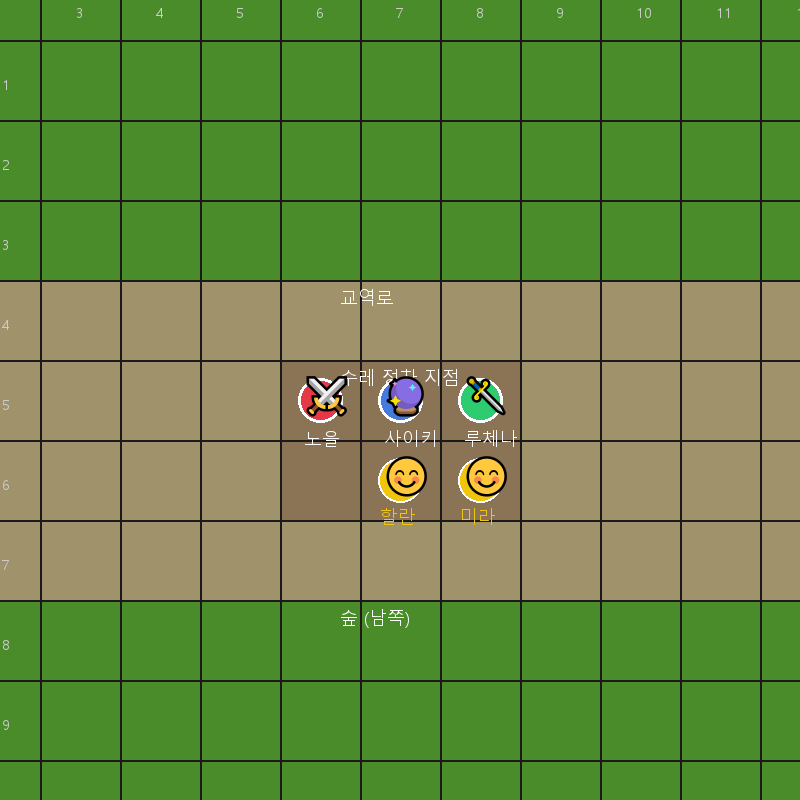
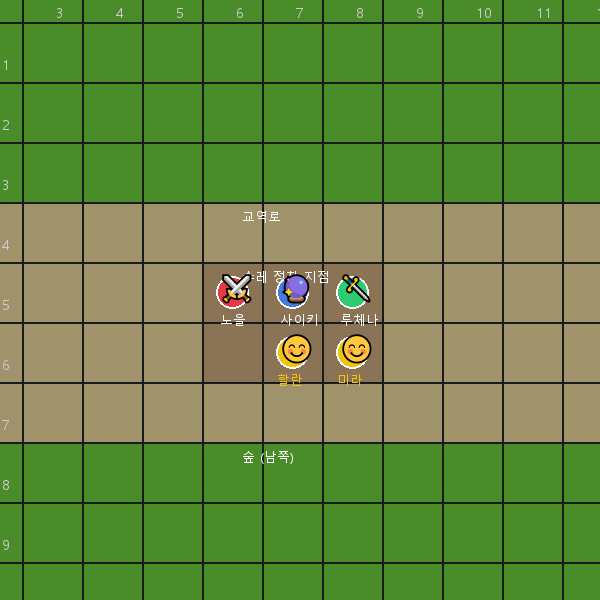
fix: 맵 타일 60px로 축소 + 아이콘/폰트 비례 조정

Changed region(s): [[0.0, 0.0, 1.0, 1.0]]

diff --git a/map_generator.py b/map_generator.py
@@ -17,7 +17,7 @@ font_paths_global = [
 
 class MapGenerator:
     def __init__(self):
-        self.tile_size = 80
+        self.tile_size = 60
         self.map_width = 20
         self.map_height = 15
         self.img_width = self.map_width * self.tile_size
@@ -54,8 +54,8 @@ class MapGenerator:
             map_h = state["map"]["height"]
             locations = state["map"]["locations"]
 
-        margin_left = 36   # 세로 좌표 표시 여백
-        margin_top = 28    # 가로 좌표 표시 여백
+        margin_left = 28   # 세로 좌표 표시 여백
+        margin_top = 20    # 가로 좌표 표시 여백
         grid_w = map_w * self.tile_size
         grid_h = map_h * self.tile_size
         img_w = grid_w + margin_left
@@ -67,7 +67,7 @@ class MapGenerator:
         coord_font = ImageFont.load_default()
         for fp in font_paths_global:
             try:
-                coord_font = ImageFont.truetype(fp, 16)
+                coord_font = ImageFont.truetype(fp, 12)
                 break
             except (OSError, IOError):
                 continue
@@ -115,8 +115,8 @@ class MapGenerator:
         font = font_small = ImageFont.load_default()
         for fp in font_paths_global:
             try:
-                font = ImageFont.truetype(fp, 24)
-                font_small = ImageFont.truetype(fp, 18)
+                font = ImageFont.truetype(fp, 18)
+                font_small = ImageFont.truetype(fp, 13)
                 break
             except (OSError, IOError):
                 continue
@@ -124,7 +124,7 @@ class MapGenerator:
         # Emoji font for entity icons
         emoji_font = None
         try:
-            emoji_font = ImageFont.truetype("C:/Windows/Fonts/seguiemj.ttf", 36)
+            emoji_font = ImageFont.truetype("C:/Windows/Fonts/seguiemj.ttf", 26)
         except (OSError, IOError):
             pass
 
@@ -165,20 +165,18 @@ class MapGenerator:
                 color = "#95a5a6"
                 label_color = "#95a5a6"
 
-            r = 22
+            r = 16
             emoji = npc_emojis.get(npc_type, "\U0001f464")
 
             if emoji_font:
-                # Draw background circle for visibility
                 draw.ellipse([cx - r, cy - r, cx + r, cy + r], fill=color + "88", outline="white", width=2)
-                # Draw emoji centered
                 try:
-                    draw.text((cx - 18, cy - 18), emoji, font=emoji_font, embedded_color=True)
+                    draw.text((cx - 13, cy - 13), emoji, font=emoji_font, embedded_color=True)
                 except TypeError:
-                    draw.text((cx - 18, cy - 18), emoji, font=emoji_font)
+                    draw.text((cx - 13, cy - 13), emoji, font=emoji_font)
             else:
                 if npc_type == "monster":
-                    size = 22
+                    size = 16
                     triangle = [
                         (cx, cy - size),
                         (cx - size, cy + size),
@@ -189,7 +187,7 @@ class MapGenerator:
                     draw.ellipse([cx - r, cy - r, cx + r, cy + r], fill=color, outline="white", width=2)
 
             draw.text(
-                (cx - 20, cy + 24), npc["name"][:4], fill=label_color, font=font_small
+                (cx - 15, cy + 18), npc["name"][:4], fill=label_color, font=font_small
             )
 
         # Draw players with emoji icons
@@ -205,22 +203,20 @@ class MapGenerator:
             cx = px * self.tile_size + self.tile_size // 2 + margin_left
             cy = py * self.tile_size + self.tile_size // 2 + margin_top
             color = player_colors.get(player["class"], "white")
-            r = 22
+            r = 16
             emoji = player_emojis.get(player["class"], "\u2694\ufe0f")
 
             if emoji_font:
-                # Draw background circle for visibility
-                draw.ellipse([cx - r, cy - r, cx + r, cy + r], fill=color + "88", outline="white", width=3)
-                # Draw emoji centered
+                draw.ellipse([cx - r, cy - r, cx + r, cy + r], fill=color + "88", outline="white", width=2)
                 try:
-                    draw.text((cx - 18, cy - 18), emoji, font=emoji_font, embedded_color=True)
+                    draw.text((cx - 13, cy - 13), emoji, font=emoji_font, embedded_color=True)
                 except TypeError:
-                    draw.text((cx - 18, cy - 18), emoji, font=emoji_font)
+                    draw.text((cx - 13, cy - 13), emoji, font=emoji_font)
             else:
                 draw.ellipse([cx - r, cy - r, cx + r, cy + r], fill=color, outline="white", width=3)
 
             draw.text(
-                (cx - 16, cy + r + 4),
+                (cx - 12, cy + r + 2),
                 player["name"][:3],
                 fill="white",
                 font=font_small,
@@ -237,8 +233,8 @@ class MapGenerator:
         info_text = f"Turn: {turn}"
         if loc_name:
             info_text += f"  |  {loc_name}"
-        draw.rectangle([0, 0, max(400, len(info_text) * 14), 35], fill="#00000088")
-        draw.text((8, 6), info_text, fill="yellow", font=font)
+        draw.rectangle([0, 0, max(300, len(info_text) * 11), 28], fill="#00000088")
+        draw.text((6, 4), info_text, fill="yellow", font=font)
 
         return img
 
